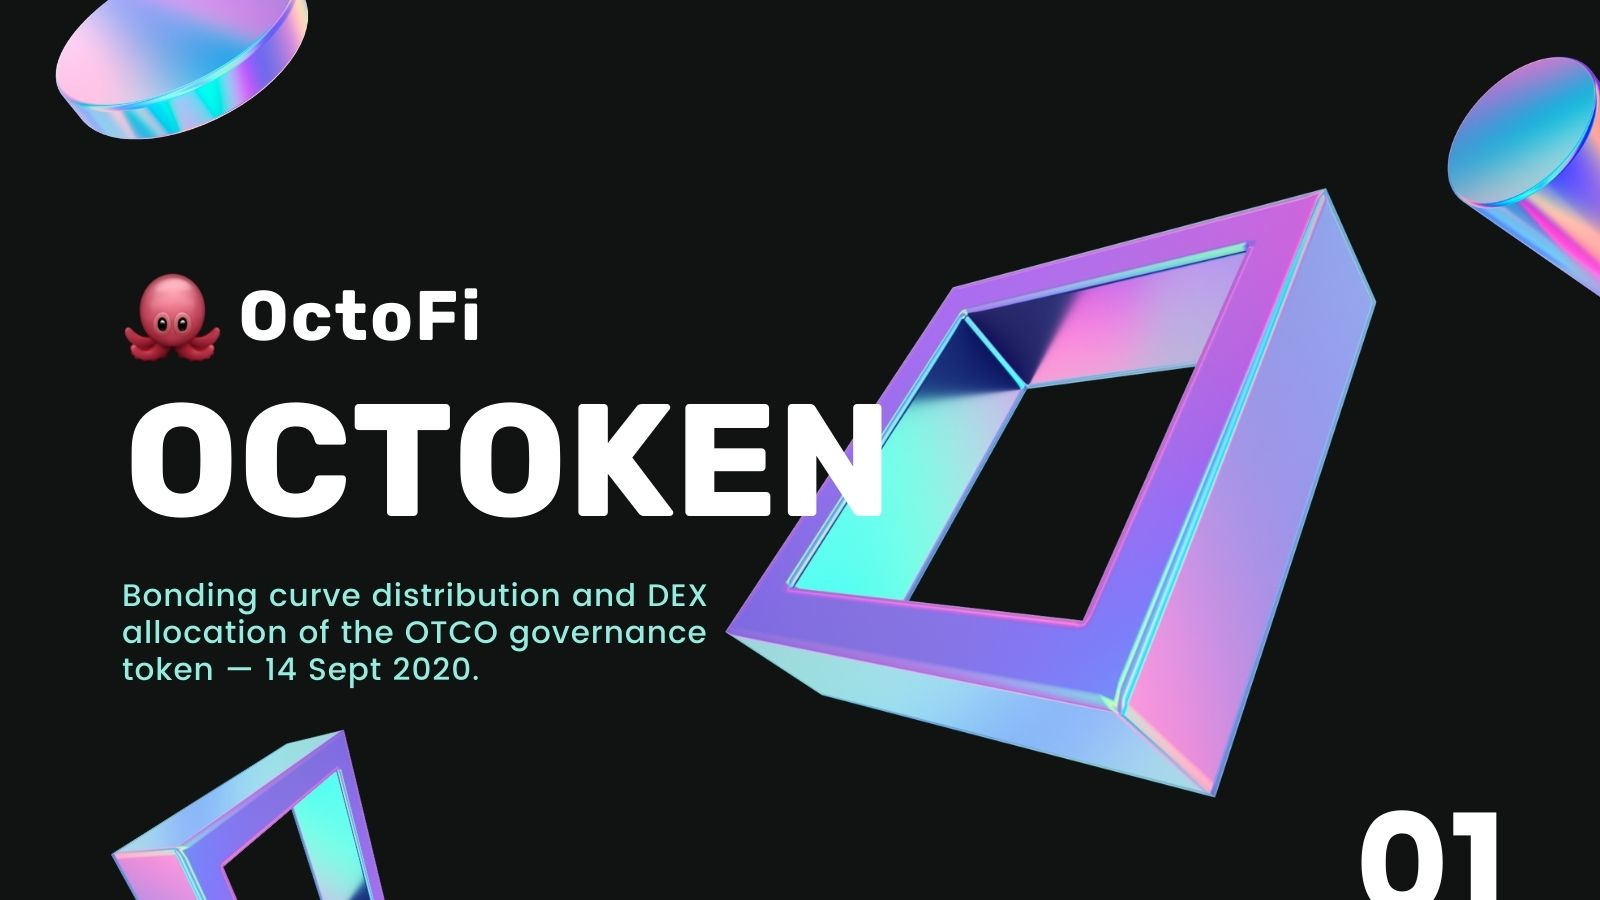
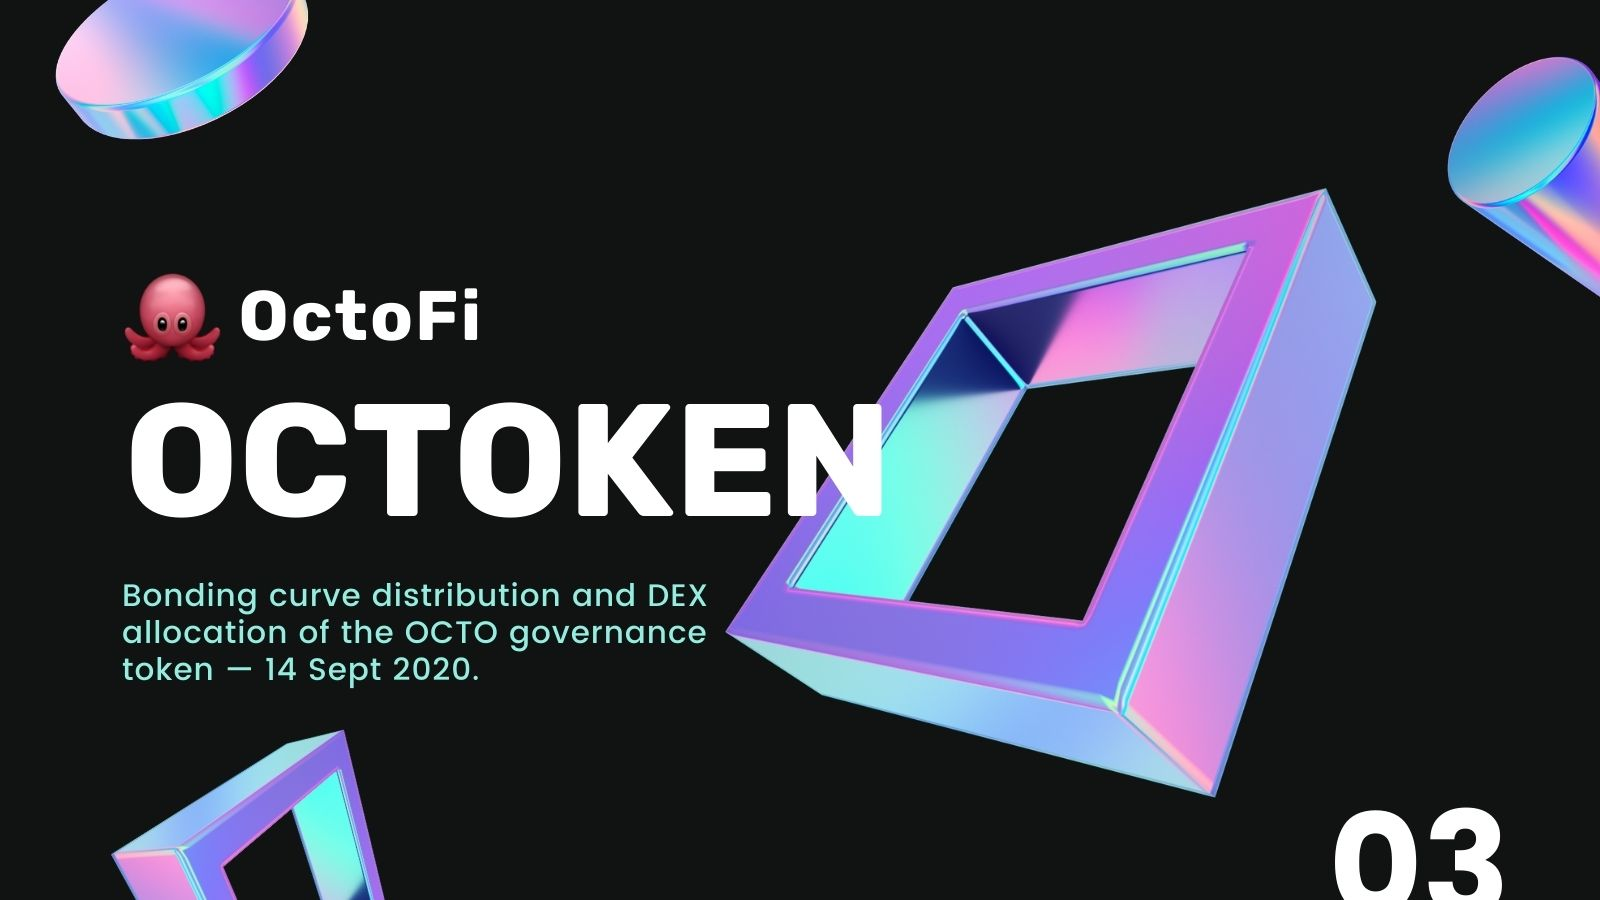
minor typos and images

Changed region(s): [[0.8125, 0.9022, 0.9375, 1.0], [0.25, 0.6844, 0.3125, 0.7156]]

diff --git a/_projects/2020-08-09-token.md b/_projects/2020-08-09-token.md
@@ -1,6 +1,6 @@
 ---
 title: Octoken
-subtitle: Bonding curve distribution and DEX allocation of the OTCO governance token — 14 Sept 2020.
+subtitle: Bonding curve distribution and DEX allocation of the OCTO governance token — 14 Sept 2020.
 date: 2020-08-07 00:00:00
 description: A bonding curve smart contract will autonomously create a market for the OCTO initial offering without the need for an exchange. Anyone can participate in the allocation and a DEX liquidity provision will be made soon after.
 featured_image: project-octoken.jpg
@@ -24,7 +24,7 @@ OctoFi is a next generation open source platform for decentralized finance tenta
 
 ## Token distribution
 
-The OCTO token distribution model is designed to be community foucused, rewarding early adopters, and those committed longer term.
+The OCTO token distribution model is designed to be community focused, rewarding early adopters, and those committed longer term.
 
 ### 125,000 for Public Sale
 
